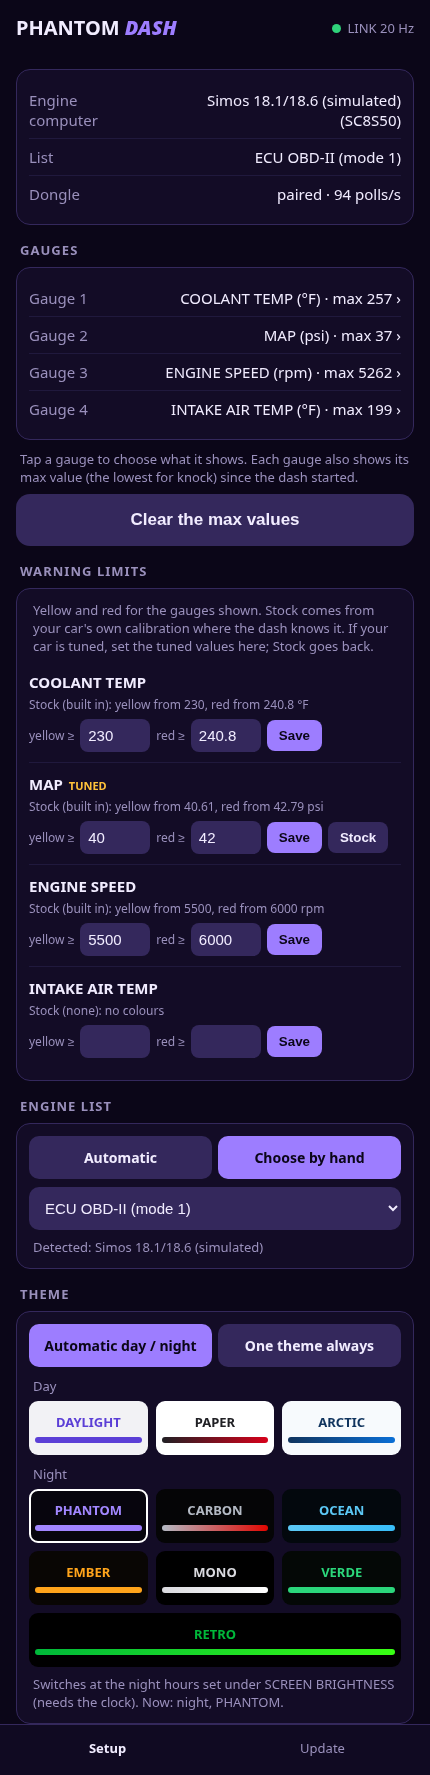
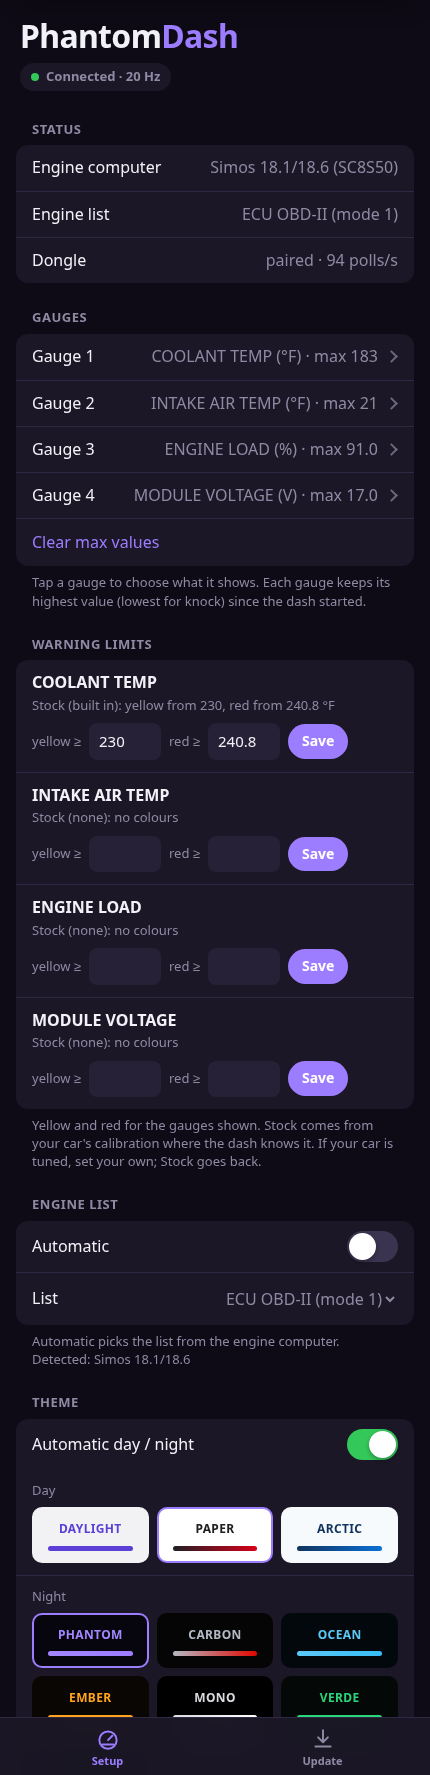
README: layouts Quad, Grid and Focus, NO DATA status, the redesigned phone page and new pictures

diff --git a/README.md b/README.md
@@ -19,15 +19,15 @@ lights, nothing else. **You set it up from your phone**, once or twice, sitting 
 
 ![The same gauges in a day theme: white backdrop, black numbers](img/gauges_day.png)
 
-* **Four or six big gauges, or one big and three small** (by default boost, oil temperature, knock and coolant temperature, then intake air temperature and battery voltage). You choose what each gauge shows from your phone.
+* **Three layouts: Quad (four big gauges), Grid (six) and Focus (one large and three small)** (by default boost, oil temperature, knock and coolant temperature, then intake air temperature and battery voltage). You choose what each gauge shows from your phone.
 * **Gear indicator** (optional): the gear between the gauges, N when no forward gear is engaged.
 * **Start-up sweep:** at power-on the shift lights and scales sweep once, like an instrument cluster.
 * **Day and night themes:** a light theme with a white backdrop and black numbers for the day (easiest to read in direct sun), a dark theme for the night, switched automatically at the night hours (the same schedule as the brightness). Three day themes and seven night themes; or keep one theme at any time of day.
-* **Your look:** six number fonts (digital, italic, condensed, wide, technical, clean), gauges on cards or a minimal layout with thin lines between them, numbers in a gradient or a solid colour, a thin scale under each number (warning zones marked, the max value as a tick), and shift lights in green-to-red or the theme's colours.
+* **Your look:** six number fonts (digital, italic, condensed, wide, technical, clean), gauges on cards or in the open style with thin lines between them, numbers in a gradient or a solid colour, a thin scale under each number (warning zones marked, the max value as a tick), and shift lights in green-to-red or the theme's colours.
 * **Shift lights:** a bar of 16 lights across the top that fills from green to red over the whole rev range, from 1,500 rpm (idle shows nothing) to 6,000 rpm, where the tachometer's red zone starts and the whole bar flashes red.
 * **Warning colours:** a gauge turns yellow, then red. Stock limits come from your own car's factory calibration where the dash knows it (turbo speed, boost and manifold pressure, fuel pump, compressor temperature: yellow where the engine computer starts protecting itself, red at its hard limit), and from limits for the EA888 Gen 3 otherwise (for example coolant 110 / 116 °C, 230 / 241 °F; oil 125 / 135 °C, 257 / 275 °F). If your car is tuned, set your tune's values on the phone page; one tap goes back to stock. A gauge in the red also flashes its frame, so it catches your eye when you are not looking at it.
 * **Max values:** each gauge shows the highest value since the dash started (the lowest for knock). Clear them from the phone page.
-* **Brightness:** a day and a night level, set from the phone page; the night level follows the dash's clock. The screen also says why the gauges are empty: NO DONGLE, CAR OFF or APP CONNECTED.
+* **Brightness:** a day and a night level, set from the phone page; the night level follows the dash's clock. The screen also says why the gauges are empty: NO DONGLE, CAR OFF, NO DATA or APP CONNECTED.
 * **Set up from your phone:** pair the dongle, choose the gauges, theme, units, the engine list, the clock, update the firmware, and load a new list of values if you are sent one (no computer needed). The dash is a live view; it does not record (the dongle is where logging happens).
 * **ECU detection:** the dash reads which engine computer the car has (through the dongle) and picks the matching list of values by itself. You can still choose by hand.
 * **Pure gauge view while driving:** above 10 mph the phone page refuses changes, so nobody fiddles with it on the move.
@@ -66,13 +66,15 @@ When the dash starts it shows a welcome screen with two QR codes:
 
 ## The phone page
 
+It looks and works like your phone's own settings: grouped lists, switches and sliders, in light or dark to match your phone.
+
 ![The setup page on a phone](img/phone_setup.png)
 
 * **Status:** the engine computer the dongle found, the list in use, the dongle link.
 * **Gauges:** tap a gauge to choose what it shows from the list.
 * **Engine list:** automatic (the dash picks the list from the engine computer) or choose by hand.
 * **Theme:** automatic day and night (choose a day theme and a night theme), or one theme always.
-* **Look:** four gauges, six, or one big with three small; gauges on cards or a minimal layout; six number fonts; numbers in a gradient or one colour; the scale under each number on or off; shift lights in green to red or in the theme's colours; the gear indicator; the start-up sweep.
+* **Layout:** Quad, Grid or Focus; gauges on Cards or Open (thin lines between them). **Numbers and details:** six number fonts; numbers in a gradient or one colour; the scale under each number on or off; shift lights in green to red or in the theme's colours; the gear indicator; the start-up sweep.
 * **Warning limits:** for each gauge shown, the stock yellow and red limits and where they come from, and fields to set your own if your car is tuned (**Stock** goes back).
 * **Screen brightness:** a day and a night level, and the night hours.
 * **Units, max values:** imperial or metric; clear the max values.
@@ -117,12 +119,14 @@ If the problem may be the dongle's side, send its log too (see the PhantomCAN do
 |---|---|
 | The gauges show `--` and **NO DONGLE** | The dash hears nothing from the dongle. Check that it is plugged in and awake, and the link on the page; pair again if needed. |
 | The gauges show `--` and **CAR OFF** | The dongle hears nothing on the car's network (ignition off). The values come back when the car wakes. |
+| The gauges show `--` and **NO DATA** | The dongle is linked, but no values have come for a few seconds: the car is not answering it. If it stays, turn the ignition off and on, or unplug the dongle and plug it back in, and send both logs (see [Sending a log](#sending-a-log)). |
 | The gauges show `--` | The dongle is connected but the car has not answered yet, or the value is not offered by the list in use. |
 | The gauges show `--` and **APP CONNECTED** | A phone app (Simos.app) is connected to the dongle. The values come back a few seconds after the app disconnects. |
 | An HSL list shows nothing | The engine computer did not accept HSL (it needs a tune with the HSL patch), or the list is for the gearbox. Choose a mode 22 list. |
 | The night brightness never changes | It needs the dash's clock. The clock sets itself from your phone when you open the page, but it keeps the time with the power off only if a coin cell (CR927) sits in the board's battery holder. |
 | The page says "No list of values loaded" | Load the list file (`.pdv`) you were sent under **Update**, LIST OF VALUES. |
 | "Not while driving" | The car is moving faster than 10 mph; slow down or stop. |
+| The page looks half loaded, or says "If this stays, the page did not load completely" | Reload it. Turning off mobile data while you are on the dash's Wi-Fi helps the page arrive in one piece. |
 | The page does not open | Turn off mobile data while you are on the dash's Wi-Fi, then type `http://192.168.4.1/` in full (with `http://`, not `https://`), or use the network's **Manage router** link. |
 | Pairing times out | Both sides need your confirmation within 45 seconds: **Same code** on the page, then **KEY** on the dongle. |
 | The update page does not open a file picker | Open `http://192.168.4.1/` in your phone's normal browser instead of the pop-up sign-in window. |
